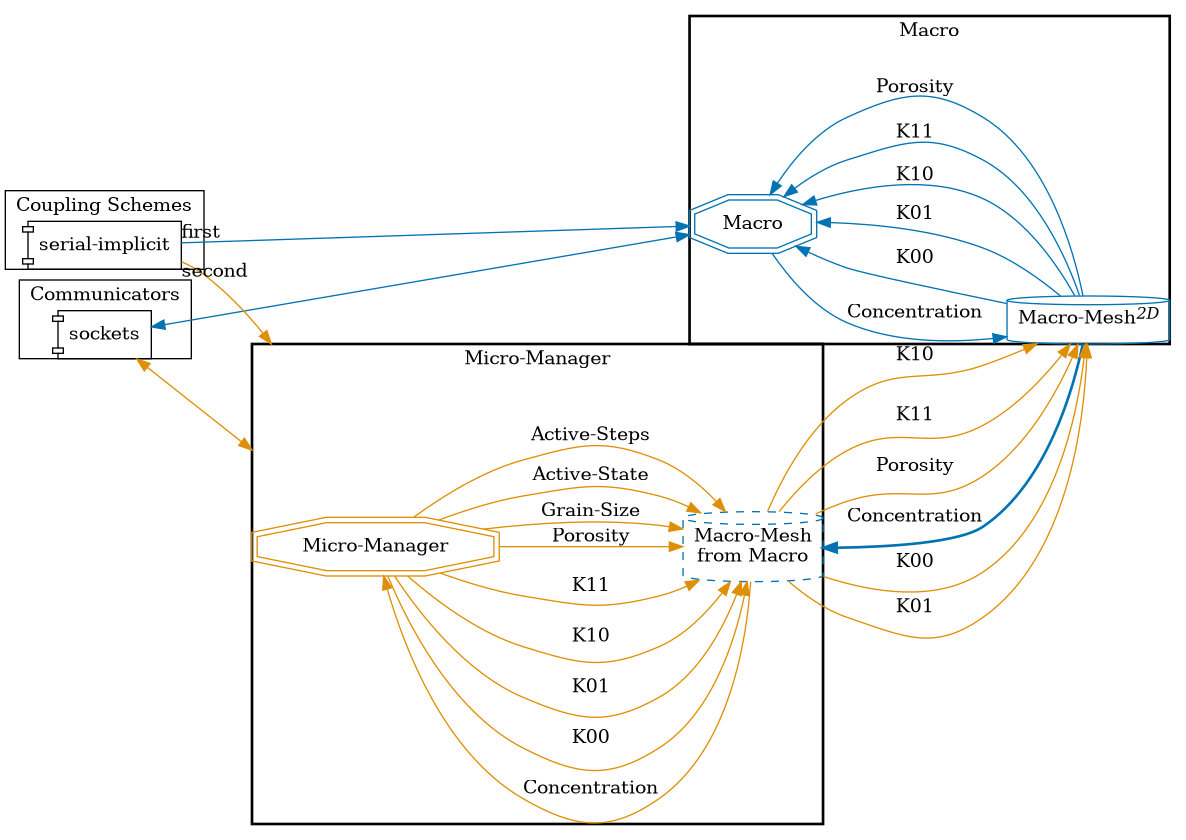
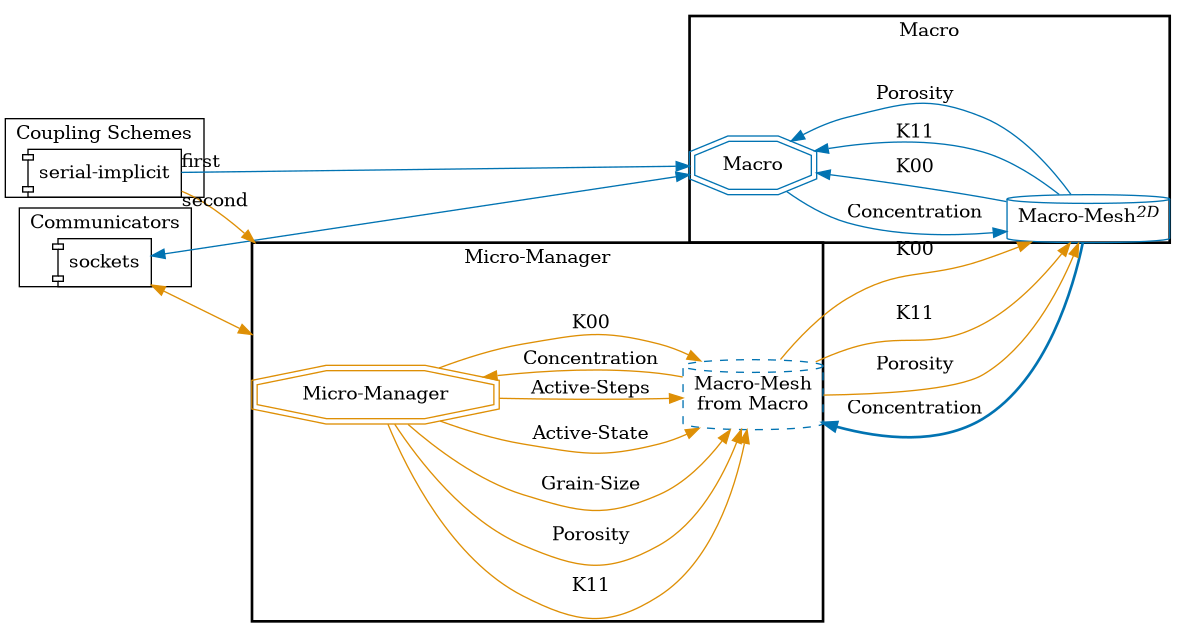
Remove K01 and K10 data from DuMuX participants and update the visualized preCICE config

diff --git a/two-scale-heat-conduction/macro-dumux/appl/main.cc b/two-scale-heat-conduction/macro-dumux/appl/main.cc
@@ -149,18 +149,14 @@ int main(int argc, char **argv)
 
   // initialize the coupling data
   std::string readDatak00;
-  // std::string readDatak01;
-  // std::string readDatak10;
   std::string readDatak11;
   std::string readDataPorosity;
   std::string writeDataConcentration;
 
   if (runWithCoupling) {
-    readDatak00 = couplingParticipant.getReadDataNamesOnMesh(meshName)[0];
-    // readDatak01            = couplingParticipant.getReadDataNamesOnMesh(meshName)[1];
-    // readDatak10            = couplingParticipant.getReadDataNamesOnMesh(meshName)[2];
-    readDatak11            = couplingParticipant.getReadDataNamesOnMesh(meshName)[3];
-    readDataPorosity       = couplingParticipant.getReadDataNamesOnMesh(meshName)[4];
+    readDatak00            = couplingParticipant.getReadDataNamesOnMesh(meshName)[0];
+    readDatak11            = couplingParticipant.getReadDataNamesOnMesh(meshName)[1];
+    readDataPorosity       = couplingParticipant.getReadDataNamesOnMesh(meshName)[2];
     writeDataConcentration = couplingParticipant.getWriteDataNamesOnMesh(meshName)[0];
   }
 
@@ -191,8 +187,6 @@ int main(int argc, char **argv)
     std::vector<double> kInitial(numberOfElements, 1.0);
     std::vector<double> porosityInitial(numberOfElements, 0.5);
     couplingParticipant.writeQuantityVector(meshName, readDatak00, kInitial);
-    // couplingParticipant.writeQuantityVector(meshName, readDatak01, kInitial);
-    // couplingParticipant.writeQuantityVector(meshName, readDatak10, kInitial);
     couplingParticipant.writeQuantityVector(meshName, readDatak11, kInitial);
     couplingParticipant.writeQuantityVector(meshName, readDataPorosity,
                                             porosityInitial);
@@ -211,8 +205,6 @@ int main(int argc, char **argv)
   // add model specific output fields
   vtkWriter.addField(problem->getPorosity(), "Porosity");
   vtkWriter.addField(problem->getK00(), "K00");
-  // vtkWriter.addField(problem->getK01(), "K01");
-  // vtkWriter.addField(problem->getK10(), "K10");
   vtkWriter.addField(problem->getK11(), "K11");
   problem->updateVtkOutput(x);
   vtkWriter.write(0.0);
@@ -285,10 +277,6 @@ int main(int argc, char **argv)
       // TODO: data needs to be updated if Newton solver adapts time-step size
       // and coupling data is interpolated in time
       couplingParticipant.readQuantityFromOtherSolver(meshName, readDatak00,
-                                                      dt);
-      couplingParticipant.readQuantityFromOtherSolver(meshName, readDatak01,
-                                                      dt);
-      couplingParticipant.readQuantityFromOtherSolver(meshName, readDatak10,
                                                       dt);
       couplingParticipant.readQuantityFromOtherSolver(meshName, readDatak11,
                                                       dt);

diff --git a/two-scale-heat-conduction/micro-dumux/appl/micro_sim.cpp b/two-scale-heat-conduction/micro-dumux/appl/micro_sim.cpp
@@ -76,8 +76,6 @@ public:
 private:
   const double pi_ = 3.14159265358979323846;
   double       _k_00;
-  double       _k_01;
-  double       _k_10;
   double       _k_11;
   double       _porosity;
   int          sim_id;
@@ -244,16 +242,12 @@ py::dict MicroSimulation::solve(py::dict macro_write_data, double dt)
 
   // calculate the conductivity tensor
   _k_00 = _cpProblem->calculateConductivityTensorComponent(0, 0);
-  _k_10 = _cpProblem->calculateConductivityTensorComponent(1, 0);
-  _k_01 = _cpProblem->calculateConductivityTensorComponent(0, 1);
   _k_11 = _cpProblem->calculateConductivityTensorComponent(1, 1);
 
   py::dict micro_write_data;
 
   // add micro_scalar_data and micro_vector_data to micro_write_data
   micro_write_data["K00"]        = _k_00;
-  micro_write_data["K10"]        = _k_10;
-  micro_write_data["K01"]        = _k_01;
   micro_write_data["K11"]        = _k_11;
   micro_write_data["Porosity"]   = _porosity;
   micro_write_data["Grain-Size"] = std::sqrt((1 - _porosity) / pi_);
